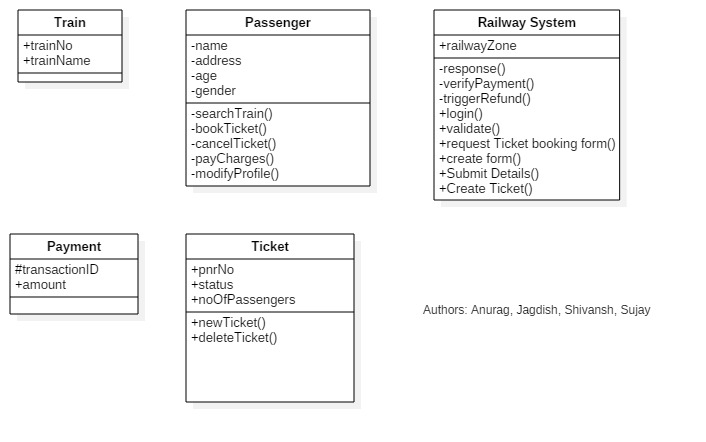
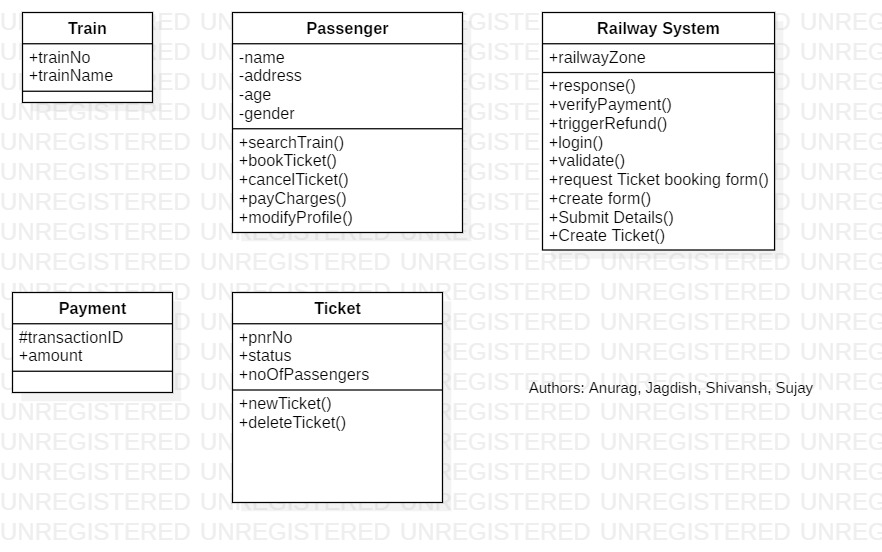
modified access from private - public

diff --git a/code/generated code/Passenger.java b/code/generated code/Passenger.java
@@ -39,35 +39,35 @@ public class Passenger {
     /**
      * 
      */
-    private void searchTrain() {
+    public void searchTrain() {
         // TODO implement here
     }
 
     /**
      * 
      */
-    private void bookTicket() {
+    public void bookTicket() {
         // TODO implement here
     }
 
     /**
      * 
      */
-    private void cancelTicket() {
+    public void cancelTicket() {
         // TODO implement here
     }
 
     /**
      * 
      */
-    private void payCharges() {
+    public void payCharges() {
         // TODO implement here
     }
 
     /**
      * 
      */
-    private void modifyProfile() {
+    public void modifyProfile() {
         // TODO implement here
     }
 

diff --git a/code/generated code/Railway System.java b/code/generated code/Railway System.java
@@ -21,21 +21,21 @@ public class Railway System {
     /**
      * 
      */
-    private void response() {
+    public void response() {
         // TODO implement here
     }
 
     /**
      * 
      */
-    private void verifyPayment() {
+    public void verifyPayment() {
         // TODO implement here
     }
 
     /**
      * 
      */
-    private void triggerRefund() {
+    public void triggerRefund() {
         // TODO implement here
     }
 
